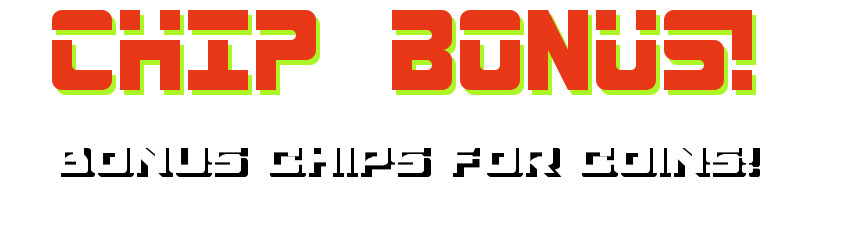
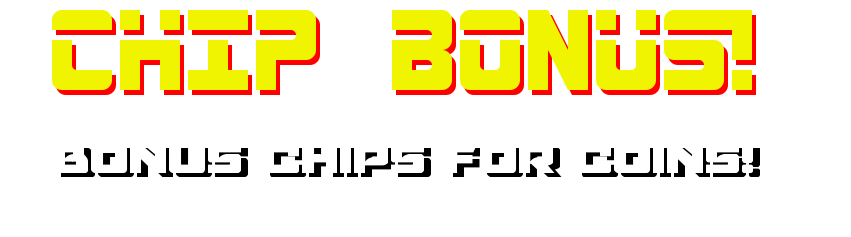
Changed the chip bonus text to be different colors as to grab the players attention. Also reset the round controller to default round lengths

Changed region(s): [[0.4583, 0.0295, 0.886, 0.4135], [0.0611, 0.0295, 0.3972, 0.4135]]

diff --git a/Dev/StaticSheepNeoBuildSystem/game/SheepEngine/Components/controllers/round/CRoundController.cpp b/Dev/StaticSheepNeoBuildSystem/game/SheepEngine/Components/controllers/round/CRoundController.cpp
@@ -29,7 +29,7 @@ namespace Framework
     current_round = 1;
     max_rounds = 6; //default value
     spawned_round_start = false;
-    timeOfRound = 23.0f; //default round length, (round length + 3.0f)
+    timeOfRound = 93.0f; //default round length, (round length + 3.0f)
     state_ = INTRO;
     gameStarted = false;
 
